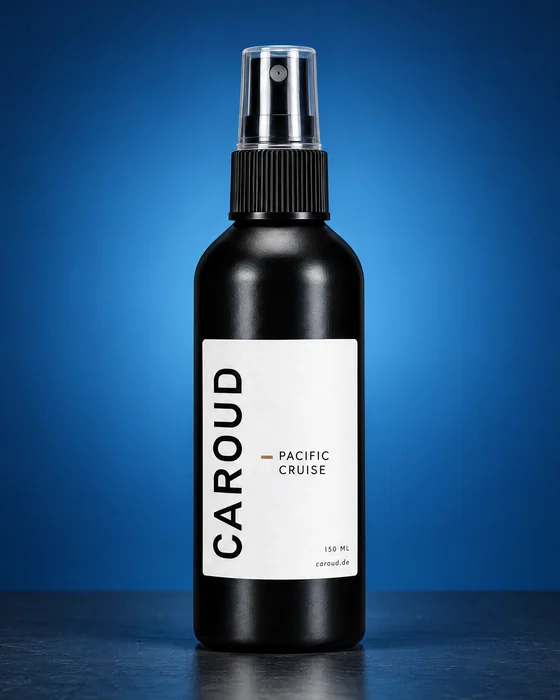
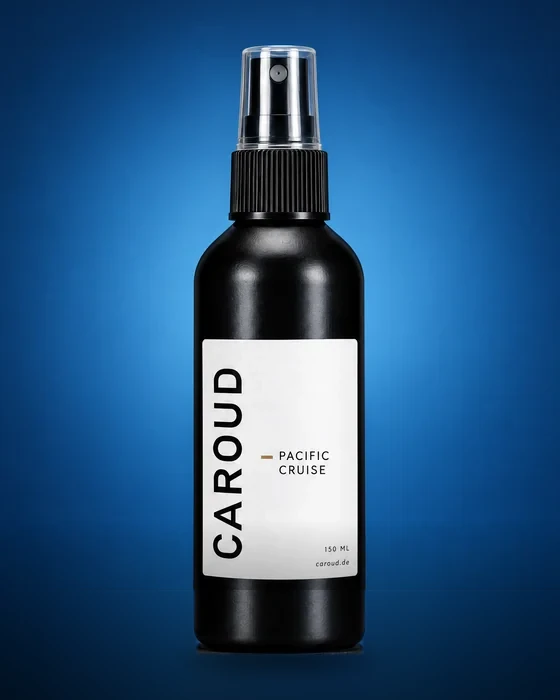
Block Der Moment auf Duftspray-Seiten, Pacific-Cruise-Karte ohne Bodenkante (v81)
Claude-Session: https://claude.ai/code/session_01FWAFBrrQYUhS2XwshSf5J4

Changed region(s): [[0.0, 0.78, 1.0, 1.0]]

diff --git a/js/products.js b/js/products.js
@@ -16,7 +16,7 @@
 // Bilder: die gedruckten Etiketten, gerendert aus den Druck-PDFs
 // (img/produkte/<typ>-<duft>.webp). Ohne img zeichnet main.js die Ersatzgrafik.
 // Version an Bild-URLs, damit Browser nach Etikett-Updates nicht alte Bilder aus dem Cache zeigen
-const ASSET_V = "51";
+const ASSET_V = "52";
 
 const CATEGORIES = [
   { name: "Duftsprays", type: "spray", color: "#111111", img: "img/produkte/spray-pacific-cruise.webp?v=" + ASSET_V },

diff --git a/index.html b/index.html
@@ -521,7 +521,7 @@
   <!-- Toast -->
   <div class="toast" id="toast" hidden></div>
 
-  <script src="js/products.js?v=74"></script>
+  <script src="js/products.js?v=75"></script>
   <script src="js/main.js?v=68"></script>
 </body>
 </html>
